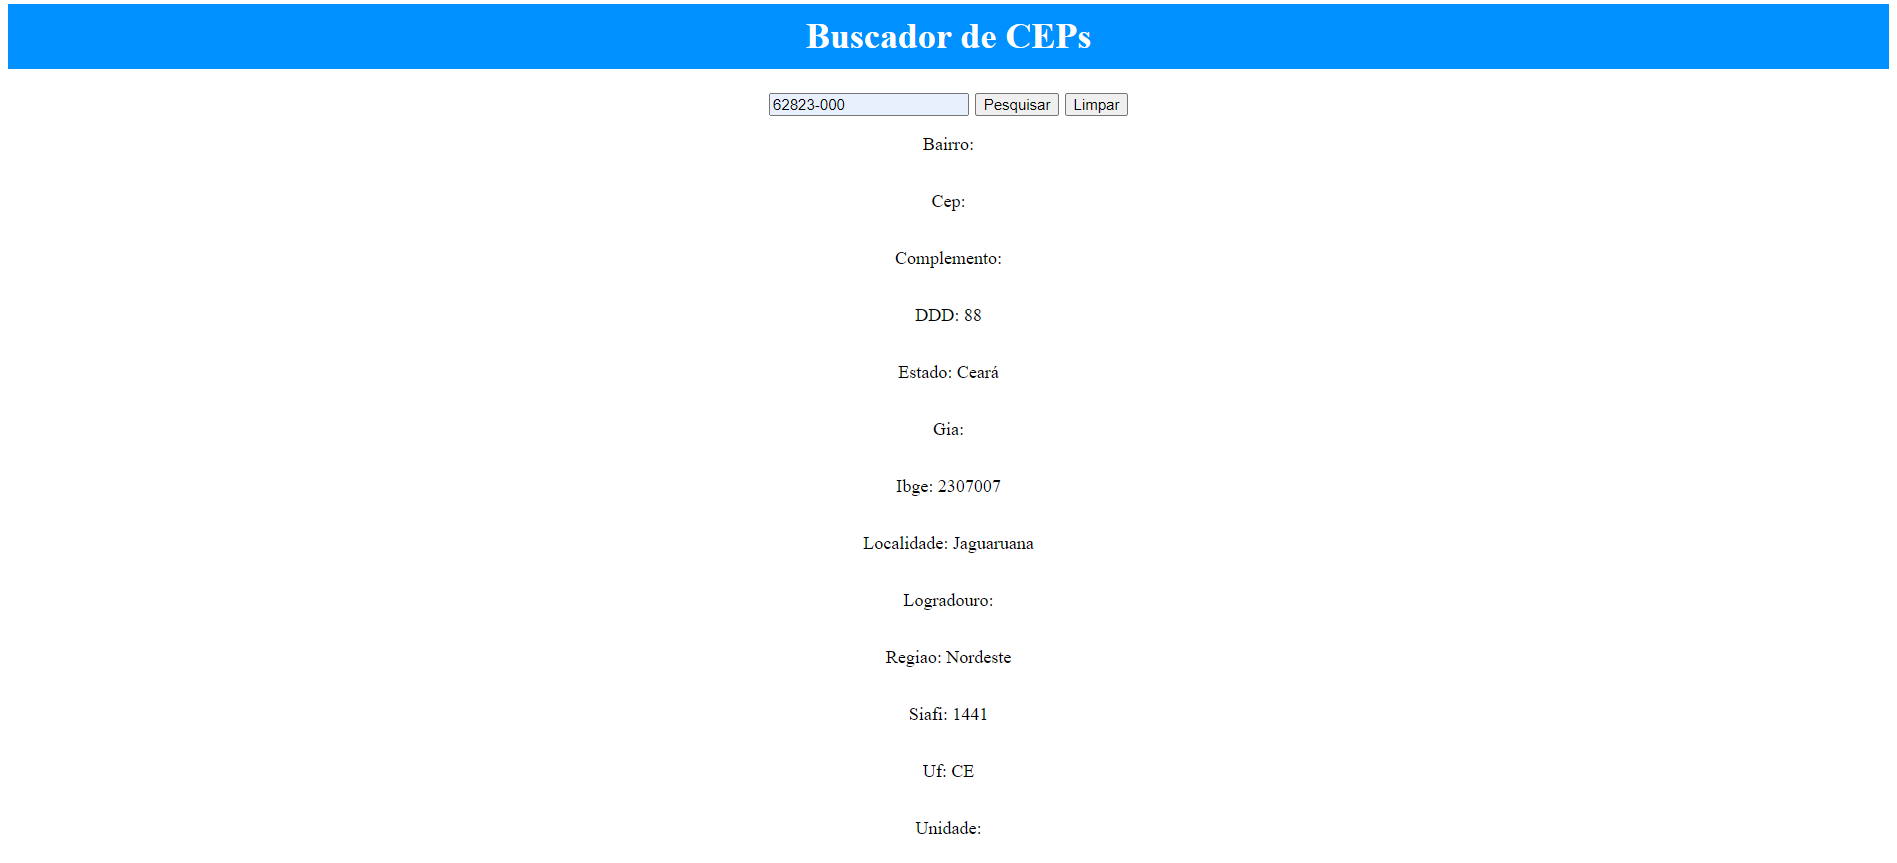
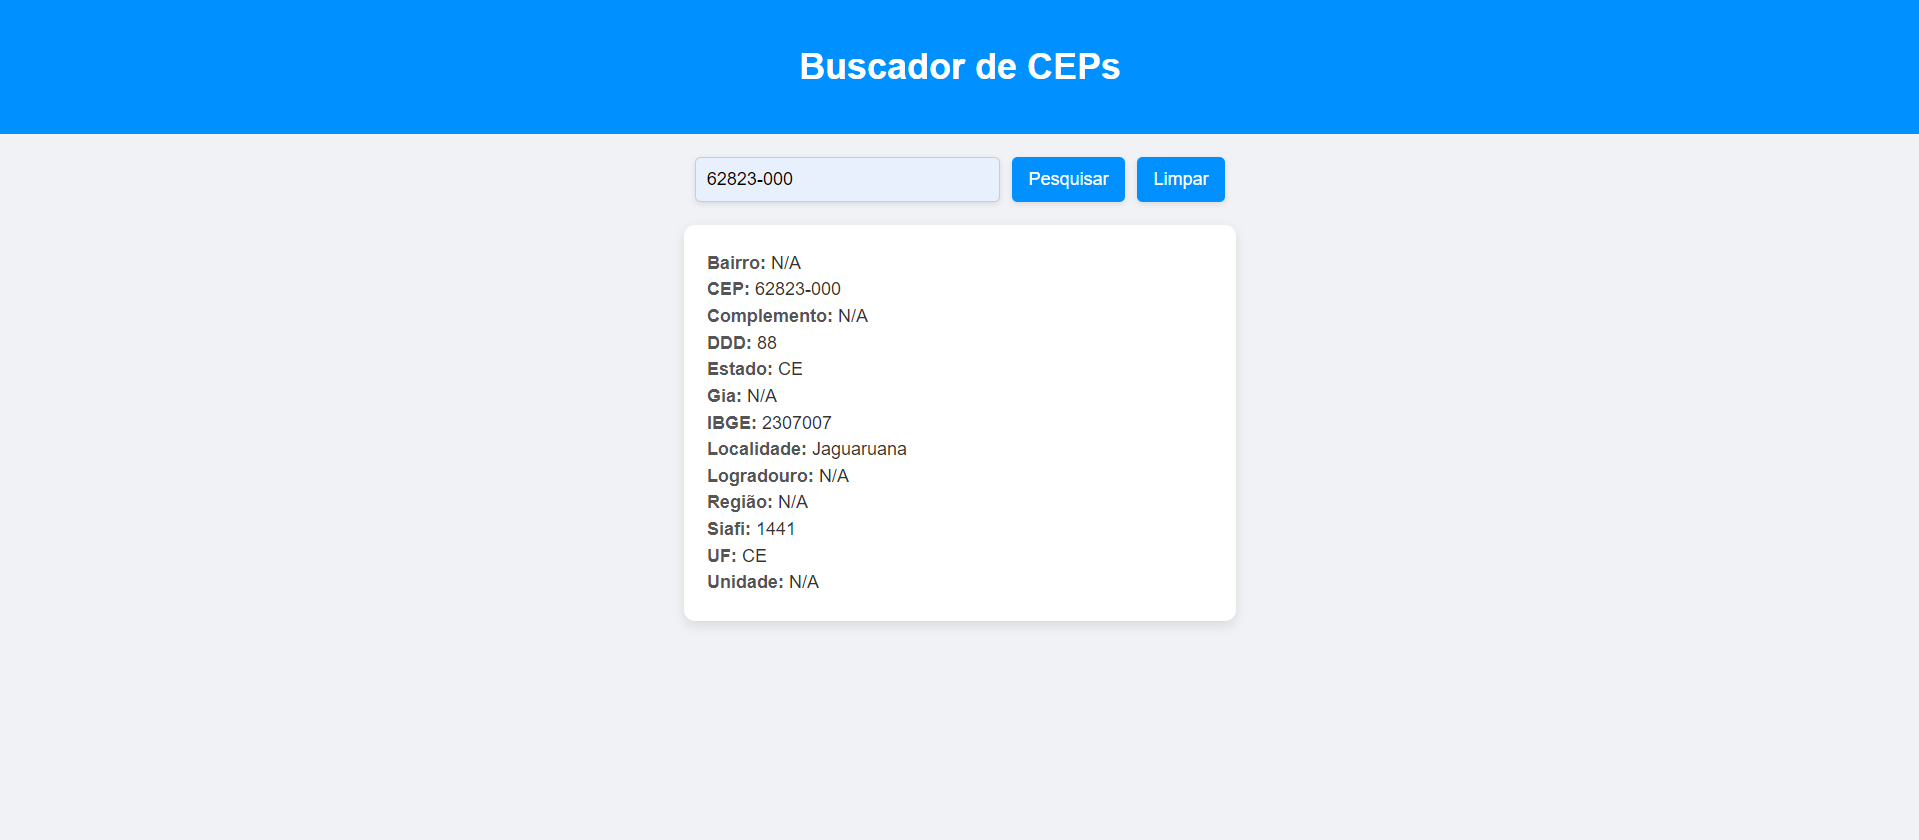
Projeto Buscador de CEPs

diff --git a/code.js b/code.js
@@ -1,50 +1,54 @@
 async function pesquisarCep() {
-    var cep = document.getElementById("cep");
+    var cepInput = document.getElementById("cep");  // Renomeei para evitar conflitos de ID
 
-    if(cep.value == "") alert("CEP Vazio");
-    else{
-    //chamada da Api
-    //https://viacep.com.br/ws/62823000/json/
-   
-   try{
-    var resposta = await fetch(`https://viacep.com.br/ws/${cep.value}/json/`);
-    var dados = await resposta.json();
-   }catch(e){
-    alert("CEP Invalido!");
-   }
+    if (cepInput.value === "") {
+        alert("CEP Vazio");
+    } else {
+        try {
+            // Chamada da API para buscar informações do CEP
+            var resposta = await fetch(`https://viacep.com.br/ws/${cepInput.value}/json/`);
+            var dados = await resposta.json();
 
-    console.log(dados);
-    console.log(dados.localidade);
-    console.log(dados.regiao);
+            if (dados.erro) {
+                alert("CEP Inválido!");
+                return;  // Sai da função se o CEP for inválido
+            }
+            
+            // Atualização dos elementos HTML com os dados recebidos
+            document.getElementById("bairro").innerHTML = dados.bairro || "N/A";
+            document.getElementById("cep_result").innerHTML = dados.cep || "N/A";  // Atualizei o ID para evitar conflito
+            document.getElementById("complemento").innerHTML = dados.complemento || "N/A";
+            document.getElementById("ddd").innerHTML = dados.ddd || "N/A";
+            document.getElementById("estado").innerHTML = dados.uf || "N/A";  // Corrigido de 'estado' para 'uf'
+            document.getElementById("gia").innerHTML = dados.gia || "N/A";
+            document.getElementById("ibge").innerHTML = dados.ibge || "N/A";
+            document.getElementById("loc").innerHTML = dados.localidade || "N/A";
+            document.getElementById("log").innerHTML = dados.logradouro || "N/A";
+            document.getElementById("regiao").innerHTML = "N/A";  // API ViaCEP não retorna 'região'
+            document.getElementById("siafi").innerHTML = dados.siafi || "N/A";
+            document.getElementById("uf").innerHTML = dados.uf || "N/A";
+            document.getElementById("unidade").innerHTML = dados.unidade || "N/A";
 
-    var bairro = document.getElementById("bairro");
-    var cep = document.getElementById("cep");
-    var complemento = document.getElementById("complemento");
-    var ddd = document.getElementById("ddd");
-    var estado = document.getElementById("estado");
-    var gia = document.getElementById("gia");
-    var ibge = document.getElementById("ibge");
-    var localidade = document.getElementById("loc");
-    var logradouro = document.getElementById("log");
-    var regiao = document.getElementById("regiao");
-    var siafi = document.getElementById("siafi");
-    var uf = document.getElementById("uf");
-    var unidade = document.getElementById("unidade");
-    // cep 60861360
-
-    bairro.innerHTML = dados.bairro;
-    cep.innerHTML = dados.cep;
-    complemento.innerHTML = dados.complemento;
-    ddd.innerHTML = dados.ddd;
-    estado.innerHTML = dados.estado;
-    gia.innerHTML = dados.gia;
-    ibge.innerHTML = dados.ibge;
-    localidade.innerHTML = dados.localidade;
-    logradouro.innerHTML = dados.logradouro;
-    regiao.innerHTML = dados.regiao;
-    siafi.innerHTML = dados.siafi;
-    uf.innerHTML = dados.uf;
-    unidade.innerHTML = dados.unidade;
-
+        } catch (e) {
+            alert("Erro ao buscar o CEP. Verifique se o CEP está correto e tente novamente.");
+        }
     }
+}
+
+// Função para limpar os campos
+function limparCampos() {
+    document.getElementById("cep").value = "";
+    document.getElementById("bairro").innerHTML = "";
+    document.getElementById("cep_result").innerHTML = "";
+    document.getElementById("complemento").innerHTML = "";
+    document.getElementById("ddd").innerHTML = "";
+    document.getElementById("estado").innerHTML = "";
+    document.getElementById("gia").innerHTML = "";
+    document.getElementById("ibge").innerHTML = "";
+    document.getElementById("loc").innerHTML = "";
+    document.getElementById("log").innerHTML = "";
+    document.getElementById("regiao").innerHTML = "";
+    document.getElementById("siafi").innerHTML = "";
+    document.getElementById("uf").innerHTML = "";
+    document.getElementById("unidade").innerHTML = "";
 }

diff --git a/style.css b/style.css
@@ -1,20 +1,81 @@
-h1{
-    text-align: center;
-    padding: 10px;
-    background-color: rgb(1, 144, 255);
-    color: white;
+/* Define a fonte padrão, remove margens e preenchimentos, e define a cor de fundo do corpo */
+body {
+    font-family: Arial, sans-serif; /* Define a fonte usada em todo o corpo */
+    margin: 0; /* Remove a margem padrão do corpo */
+    padding: 0; /* Remove o preenchimento padrão do corpo */
+    background-color: #f0f2f5; /* Define a cor de fundo do corpo */
+    display: flex; /* Utiliza Flexbox para organizar os elementos */
+    flex-direction: column; /* Organiza os elementos em uma coluna */
+    align-items: center; /* Centraliza os elementos horizontalmente */
 }
 
+/* Estiliza o cabeçalho da página */
+header {
+    text-align: center; /* Alinha o texto do cabeçalho ao centro */
+    padding: 20px; /* Adiciona preenchimento interno ao cabeçalho */
+    background-color: #0190ff; /* Define a cor de fundo do cabeçalho */
+    color: white; /* Define a cor do texto do cabeçalho */
+    margin-bottom: 20px; /* Adiciona uma margem inferior ao cabeçalho */
+    width: 100%; /* Define a largura do cabeçalho como 100% do contêiner pai */
+}
+
+/* Estiliza o formulário de busca */
 .form-busca {
-display: flex;
-justify-content: center;
-gap: 5px;
+    display: flex; /* Utiliza Flexbox para organizar os elementos */
+    justify-content: center; /* Centraliza os elementos horizontalmente */
+    gap: 10px; /* Adiciona um espaço entre os elementos */
+    margin-bottom: 20px; /* Adiciona uma margem inferior ao formulário de busca */
+}
+
+/* Estiliza os campos de entrada de texto */
+input[type="text"] {
+    padding: 10px; /* Adiciona preenchimento interno ao campo de texto */
+    font-size: 16px; /* Define o tamanho da fonte no campo de texto */
+    width: 250px; /* Define a largura do campo de texto */
+    border: 1px solid #ccc; /* Adiciona uma borda cinza clara ao campo de texto */
+    border-radius: 5px; /* Arredonda os cantos da borda do campo de texto */
+    box-shadow: 0px 2px 5px rgba(0, 0, 0, 0.1); /* Adiciona uma sombra leve ao campo de texto */
+}
+
+/* Estiliza os botões */
+button {
+    padding: 10px 15px; /* Adiciona preenchimento interno ao botão */
+    font-size: 16px; /* Define o tamanho da fonte no botão */
+    border: none; /* Remove a borda padrão do botão */
+    background-color: #0190ff; /* Define a cor de fundo do botão */
+    color: white; /* Define a cor do texto do botão */
+    cursor: pointer; /* Altera o cursor para uma mãozinha ao passar sobre o botão */
+    border-radius: 5px; /* Arredonda os cantos do botão */
+    box-shadow: 0px 2px 5px rgba(0, 0, 0, 0.1); /* Adiciona uma sombra leve ao botão */
+    transition: background-color 0.3s ease; /* Adiciona uma transição suave para a cor de fundo */
+}
+
+/* Estiliza o botão quando o mouse passa sobre ele */
+button:hover {
+    background-color: #016bb5; /* Muda a cor de fundo quando o botão é focado */
+}
+
+.partefora {
+    display: flex; /* Define flexbox para centralizar a div info */
+    justify-content: center; /* Centraliza o conteúdo */
+    align-items: flex-start; /* Alinha os itens ao início (esquerda) */
+    background-color: white; /* Adiciona um fundo branco para destaque */
+    padding: 20px; /* Espaçamento interno */
+    border-radius: 10px; /* Borda arredondada */
+    box-shadow: 0px 4px 10px rgba(0, 0, 0, 0.1); /* Sombra para destacar */
 }
 
 .info {
-    display: flex;
-    justify-content: center;
-    flex-direction: column;
-    align-items: center;
+    text-align: left; /* Alinha o texto à esquerda */
+    width: 450px; /* Define uma largura fixa para os elementos internos */
 }
 
+.info p {
+    margin: 5px 0; /* Remove espaçamento extra para manter alinhado */
+    font-size: 16px; /* Tamanho da fonte */
+    color: #333; /* Cor do texto */
+}
+
+strong {
+    color: #555; /* Cor para o texto em negrito */
+}

diff --git a/index.html b/index.html
@@ -8,30 +8,31 @@
 </head>
 
 <body>
-    <header><h1> Buscador de CEPs </h1></header>
+    <header><h1>Buscador de CEPs</h1></header>
     <div class="form-busca">
-        <input id="cep" type="" />
+        <input id="cep" type="text" placeholder="Digite o CEP..." />
         <button onclick="pesquisarCep()">Pesquisar</button>
-        <button>Limpar</button>
+        <button onclick="limparCampos()">Limpar</button>
     </div>
 
-    <div class="info">
-
-        <p>Bairro: <span id="bairro"></span></p>
-        <p>Cep: <span id="cep"></span></p>
-        <p>Complemento: <span id="complemento"></span></p>
-        <p>DDD: <span id="ddd"></span></p>
-        <p>Estado: <span id="estado"></span></p>
-        <p>Gia: <span id="gia"></span></p>
-        <p>Ibge: <span id="ibge"></span></p>
-        <p>Localidade: <span id="loc"></span></p>
-        <p>Logradouro: <span id="log"></span></p>
-        <p>Regiao: <span id="regiao"></span></p>
-        <p>Siafi: <span id="siafi"></span></p>
-        <p>Uf: <span id="uf"></span></p>
-        <p>Unidade: <span id="unidade"></span></p>
-
+    <div class="partefora">
+        <div class="info">
+            <p><strong>Bairro:</strong> <span id="bairro"></span></p>
+            <p><strong>CEP:</strong> <span id="cep_result"></span></p>
+            <p><strong>Complemento:</strong> <span id="complemento"></span></p>
+            <p><strong>DDD:</strong> <span id="ddd"></span></p>
+            <p><strong>Estado:</strong> <span id="estado"></span></p>
+            <p><strong>Gia:</strong> <span id="gia"></span></p>
+            <p><strong>IBGE:</strong> <span id="ibge"></span></p>
+            <p><strong>Localidade:</strong> <span id="loc"></span></p>
+            <p><strong>Logradouro:</strong> <span id="log"></span></p>
+            <p><strong>Região:</strong> <span id="regiao"></span></p>
+            <p><strong>Siafi:</strong> <span id="siafi"></span></p>
+            <p><strong>UF:</strong> <span id="uf"></span></p>
+            <p><strong>Unidade:</strong> <span id="unidade"></span></p>
+        </div>
     </div>
+    
 
     <script src="code.js"></script>
 </body>
